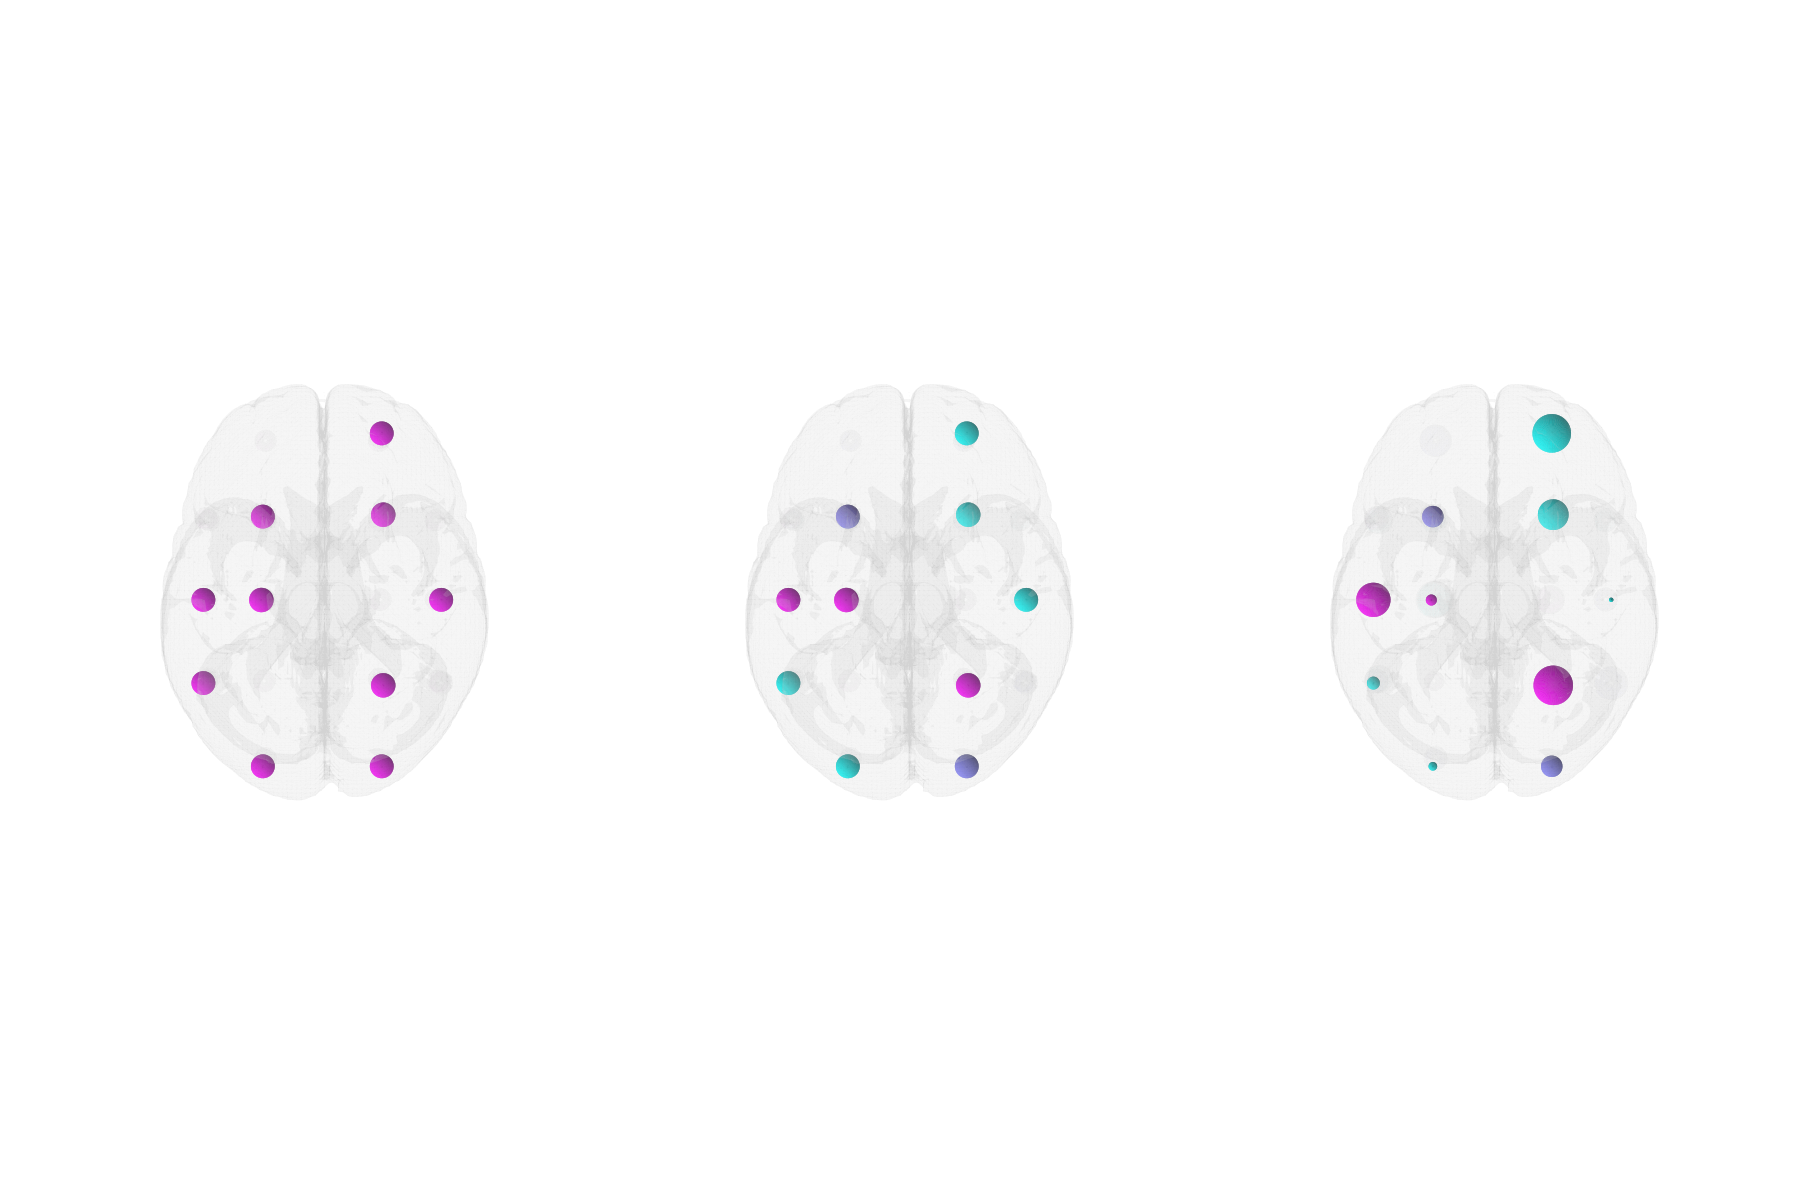
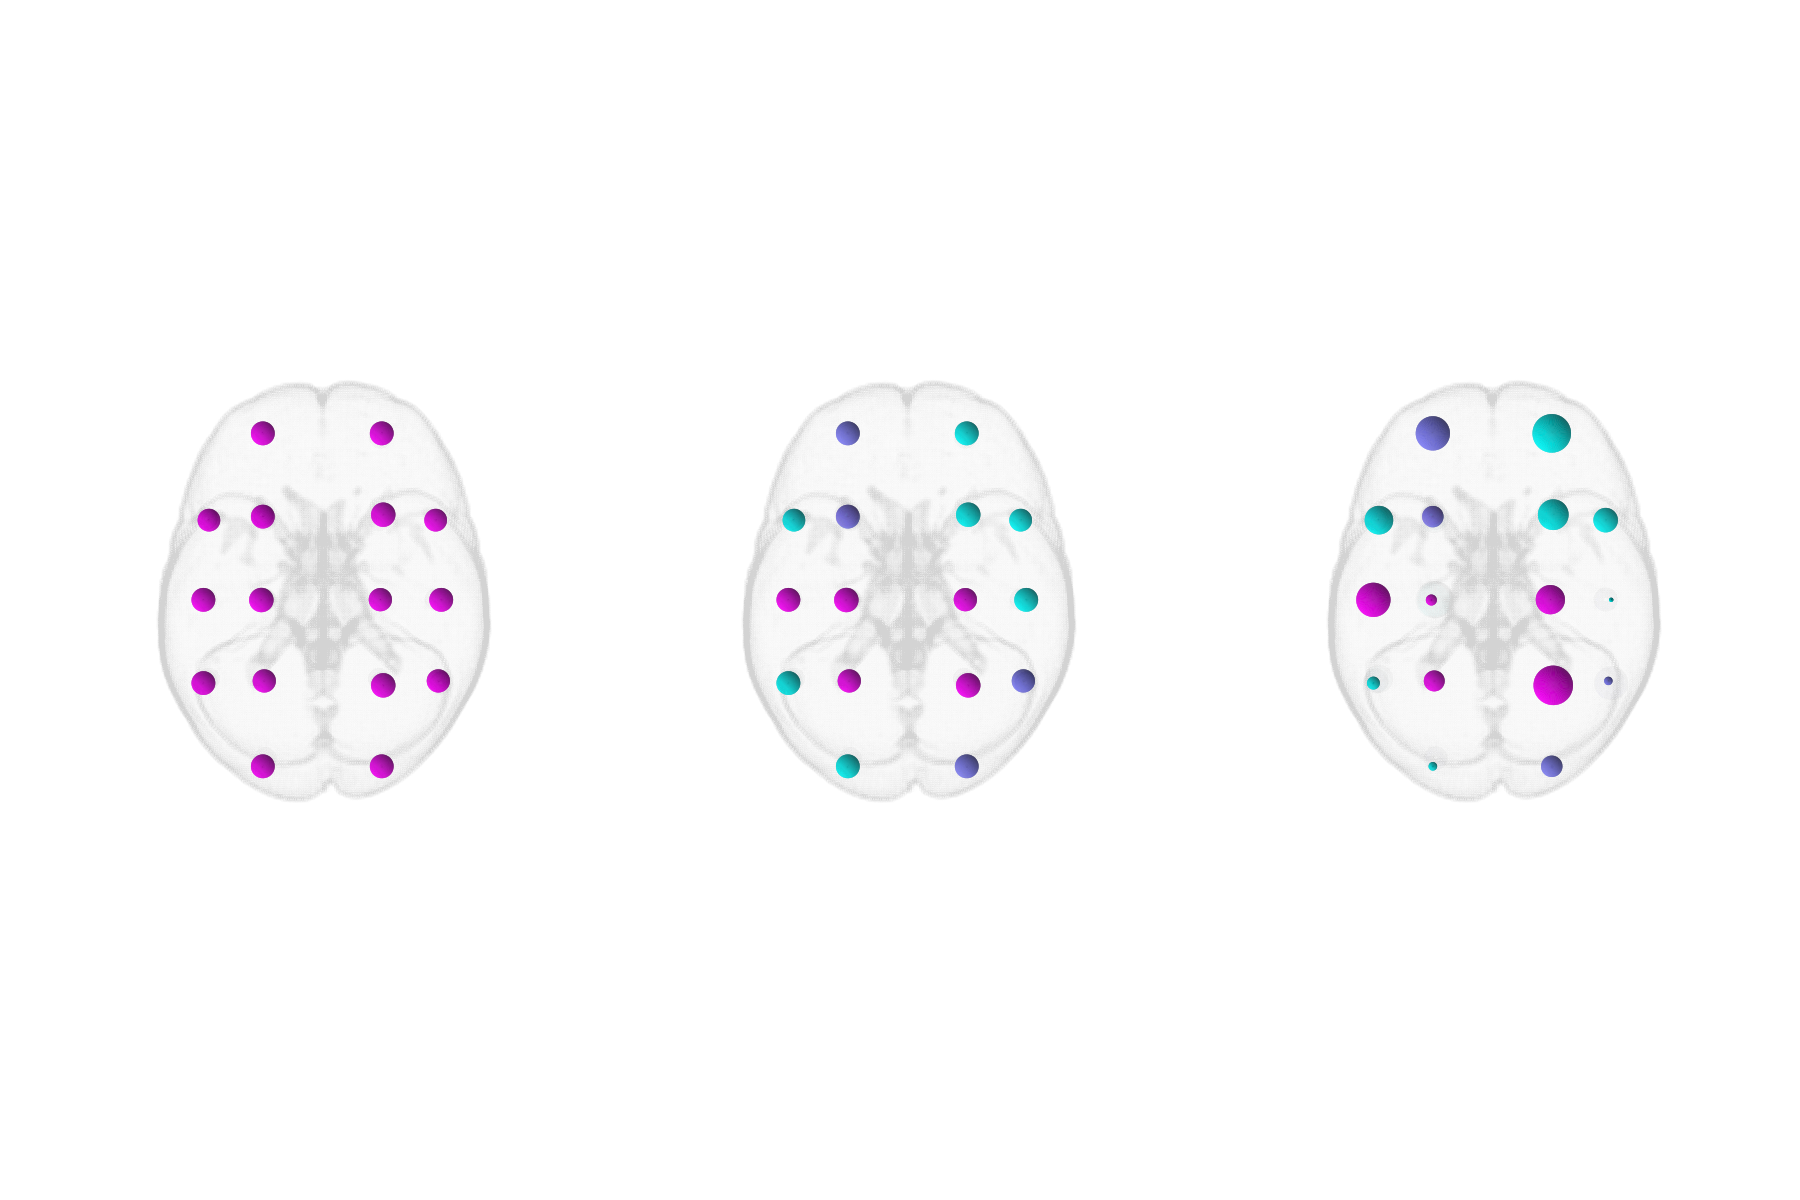
node customization code and fig

diff --git a/node_customization.py b/node_customization.py
@@ -13,13 +13,12 @@ fig  = plt.figure()
 ax = fig.add_subplot(131, projection='3d')
 netplotbrain.plot(nodes=nodes,
                   template='MNI152NLin6Asym',
-                  templatestyle='surface',
-                  templatealpha=0.1,
+                  templatestyle='glass',
                   view='S',
                   nodetype='spheres',
                   nodecolor='magenta',
                   nodealpha=0.1,
-                  highlightnodes=[20,21,22,25,24,27,29,31,32,33], 
+                  highlightnodes=[1,5,9,13,16,18,19,20,21,24,23,26,28,30,31,32], 
                   arrowaxis=None,
                   subtitles=None,
                   fig=fig, ax=ax)
@@ -28,11 +27,10 @@ netplotbrain.plot(nodes=nodes,
 ax = fig.add_subplot(132, projection='3d')
 netplotbrain.plot(nodes=nodes,
                   template='MNI152NLin6Asym',
-                  templatestyle='surface',
-                  templatealpha=0.1,
+                  templatestyle='glass',
                   view='S',
                   nodetype='spheres',
-                  highlightnodes=[20,21,22,25,24,27,29,31,32,33], 
+                  highlightnodes=[1,5,9,13,16,18,19,20,21,24,23,26,28,30,31,32], 
                   nodecolor='community',
                   nodecmap='cool',
                   nodealpha=0.1,
@@ -45,10 +43,9 @@ netplotbrain.plot(nodes=nodes,
 ax = fig.add_subplot(133, projection='3d')
 netplotbrain.plot(nodes=nodes,
                   template='MNI152NLin6Asym',
-                  templatestyle='surface', 
-                  templatealpha=0.1,
+                  templatestyle='glass', 
                   view='S',
-                  highlightnodes=[20,21,22,25,24,27,29,31,32,33],
+                  highlightnodes=[1,5,9,13,16,18,19,20,21,24,23,26,28,30,31,32],
                   nodetype='spheres', 
                   nodecolor='community',
                   nodecmap='cool',
